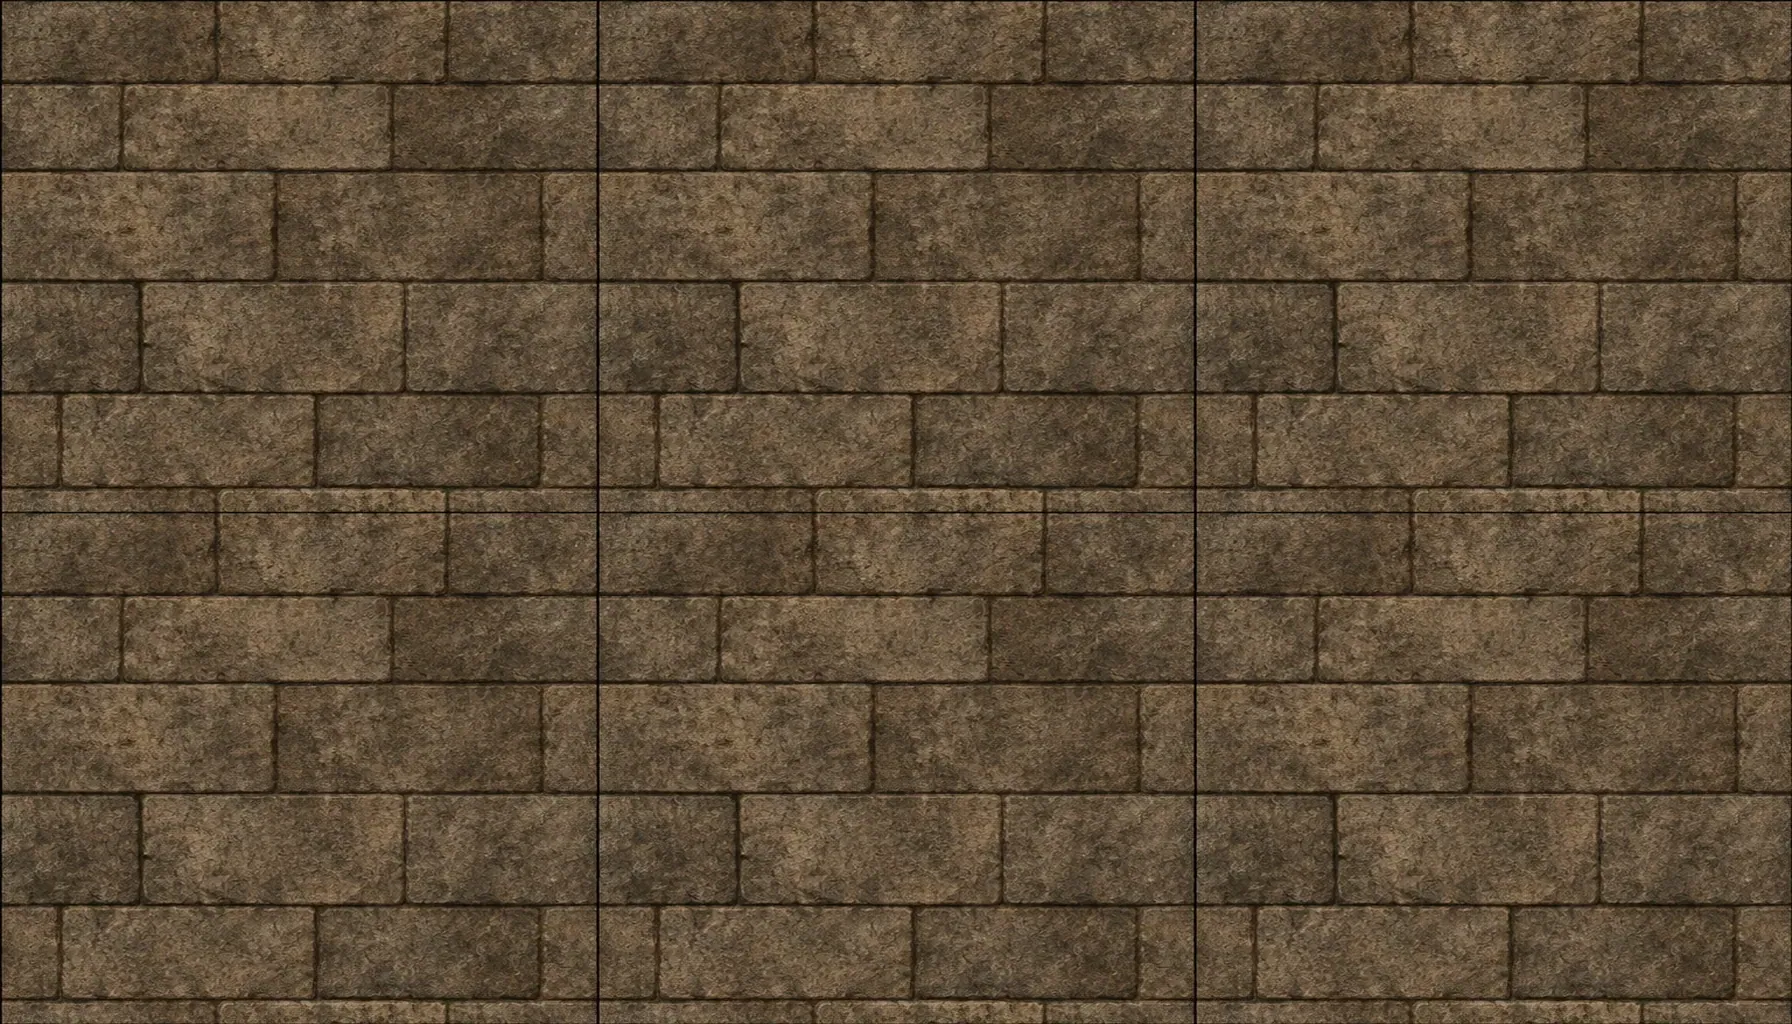
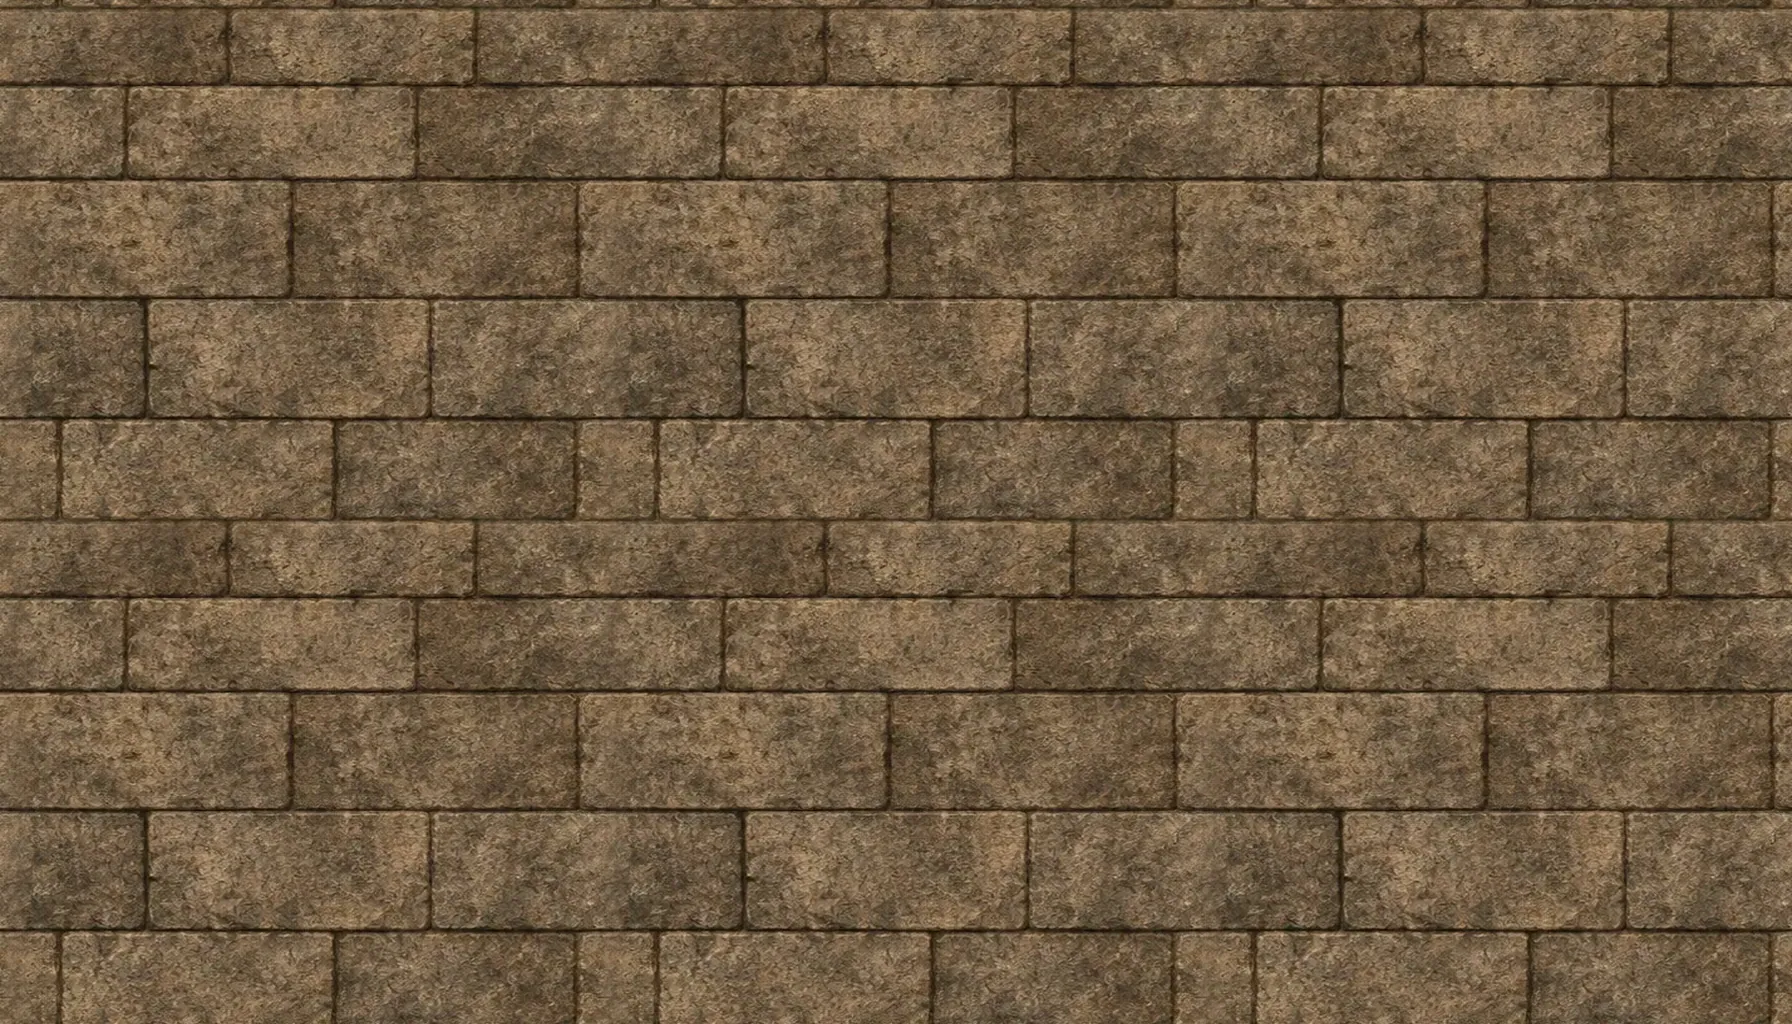
The four new paintings of stone made to repeat without a seam, evened and brought up to the land's stone
Claude-Session: https://claude.ai/code/session_01YbmsD32UYawr9gchsUWfkD

diff --git a/src/core/sites.js b/src/core/sites.js
@@ -23,7 +23,7 @@ const TAU = Math.PI * 2;
 // (The four from the catacombs, tools/village/more_stone.py, hold three of their painting across and two up: a third number is
 // how far one repeat goes on a floor's other way, where a floor would otherwise stretch it.)
 const TILE = { wall: [7, 4.2], roof: [4, 2.3], stone: [3, 1.7], rubble: [3, 1.7], wood: [2.4, 1.4], door: [1.8, 2.6], cloth: [2, 2],
-  block: [6.3, 3.2, 4.2], course: [6.3, 3.2, 4.2], ashlar: [6.9, 3.4, 4.6], flags: [8.1, 4.2, 5.4] };
+  block: [8.1, 4.1, 5.4], course: [8.1, 4.1, 5.4], ashlar: [8.4, 4.2, 5.6], flags: [8.1, 4.2, 5.4] };
 export const tileOf = (layer) => {
   const n = layer.replace(/^(dark|pale|frost):/, '');
   return n.startsWith('wall') || n === 'door_wall' ? TILE.wall : n.startsWith('roof') ? TILE.roof : n.startsWith('door') ? TILE.door : TILE[n] || TILE.cloth;

diff --git a/tools/village/more_stone.py b/tools/village/more_stone.py
@@ -11,17 +11,48 @@ many metres one repeat covers.
 import json
 import os
 
-from PIL import Image
+import numpy as np
+from PIL import Image, ImageFilter
 
 ROOT = os.path.dirname(os.path.dirname(os.path.dirname(os.path.abspath(__file__))))
 SRC = os.path.join(ROOT, "assets", "game", "interior")
 OUT = os.path.join(ROOT, "assets", "game", "tex")
 MORE = {"block": "cata_block", "flags": "cata_floor", "ashlar": "wall_ashlar", "course": "cata_wall3"}
 ACROSS, UP = 3, 2
+TARGET = 0.37   # (mean brightness: the land's stone is about 0.41, its rubble 0.38)
+
+
+def evened(im):
+    """The catacombs' paintings are darker than the land's stone and each has a light and a dark side, which shows as a
+    grid once it's laid over a long wall: the broad light and dark taken out (wrapping, so it still repeats), and the
+    whole brought up to the land's stone."""
+    a = np.asarray(im, dtype=np.float32) / 255
+    lum = a @ np.array([0.2126, 0.7152, 0.0722], dtype=np.float32)
+    h, w = lum.shape
+    big = np.tile(lum, (3, 3))
+    broad = np.asarray(Image.fromarray((big * 255).astype(np.uint8)).filter(ImageFilter.GaussianBlur(w / 6)), dtype=np.float32)[h:2 * h, w:2 * w] / 255
+    a = a * (lum.mean() / np.maximum(broad, 0.02))[..., None] ** 0.85
+    a = a * (TARGET / max(lum.mean(), 0.02))
+    return Image.fromarray((np.clip(a, 0, 1) * 255 + 0.5).astype(np.uint8))
+
+
+def wrapped(im, trim=4, band=28):
+    """The paintings stop at their edges (a dark joint, a pale line): the edge trimmed off, and each side faded into the
+    far side's own, so one laid beside another runs on."""
+    a = np.asarray(im, dtype=np.float32)[trim:-trim, trim:-trim]
+    for axis in (0, 1):
+        a = np.moveaxis(a, axis, 0)
+        t = np.linspace(0, 1, band, dtype=np.float32).reshape((band,) + (1,) * (a.ndim - 1))
+        head = a[:band] * t + a[-band:] * (1 - t)
+        a = np.concatenate([head, a[band:-band]], 0)
+        a = np.moveaxis(a, 0, axis)
+    return Image.fromarray((a + 0.5).astype(np.uint8), im.mode)
 
 
 def laid(path, size, mode):
-    im = Image.open(path).convert(mode)
+    im = wrapped(Image.open(path).convert(mode))
+    if mode == "RGB":
+        im = evened(im)
     w, h = im.size
     sheet = Image.new(mode, (w * ACROSS, h * UP))
     for i in range(ACROSS):
